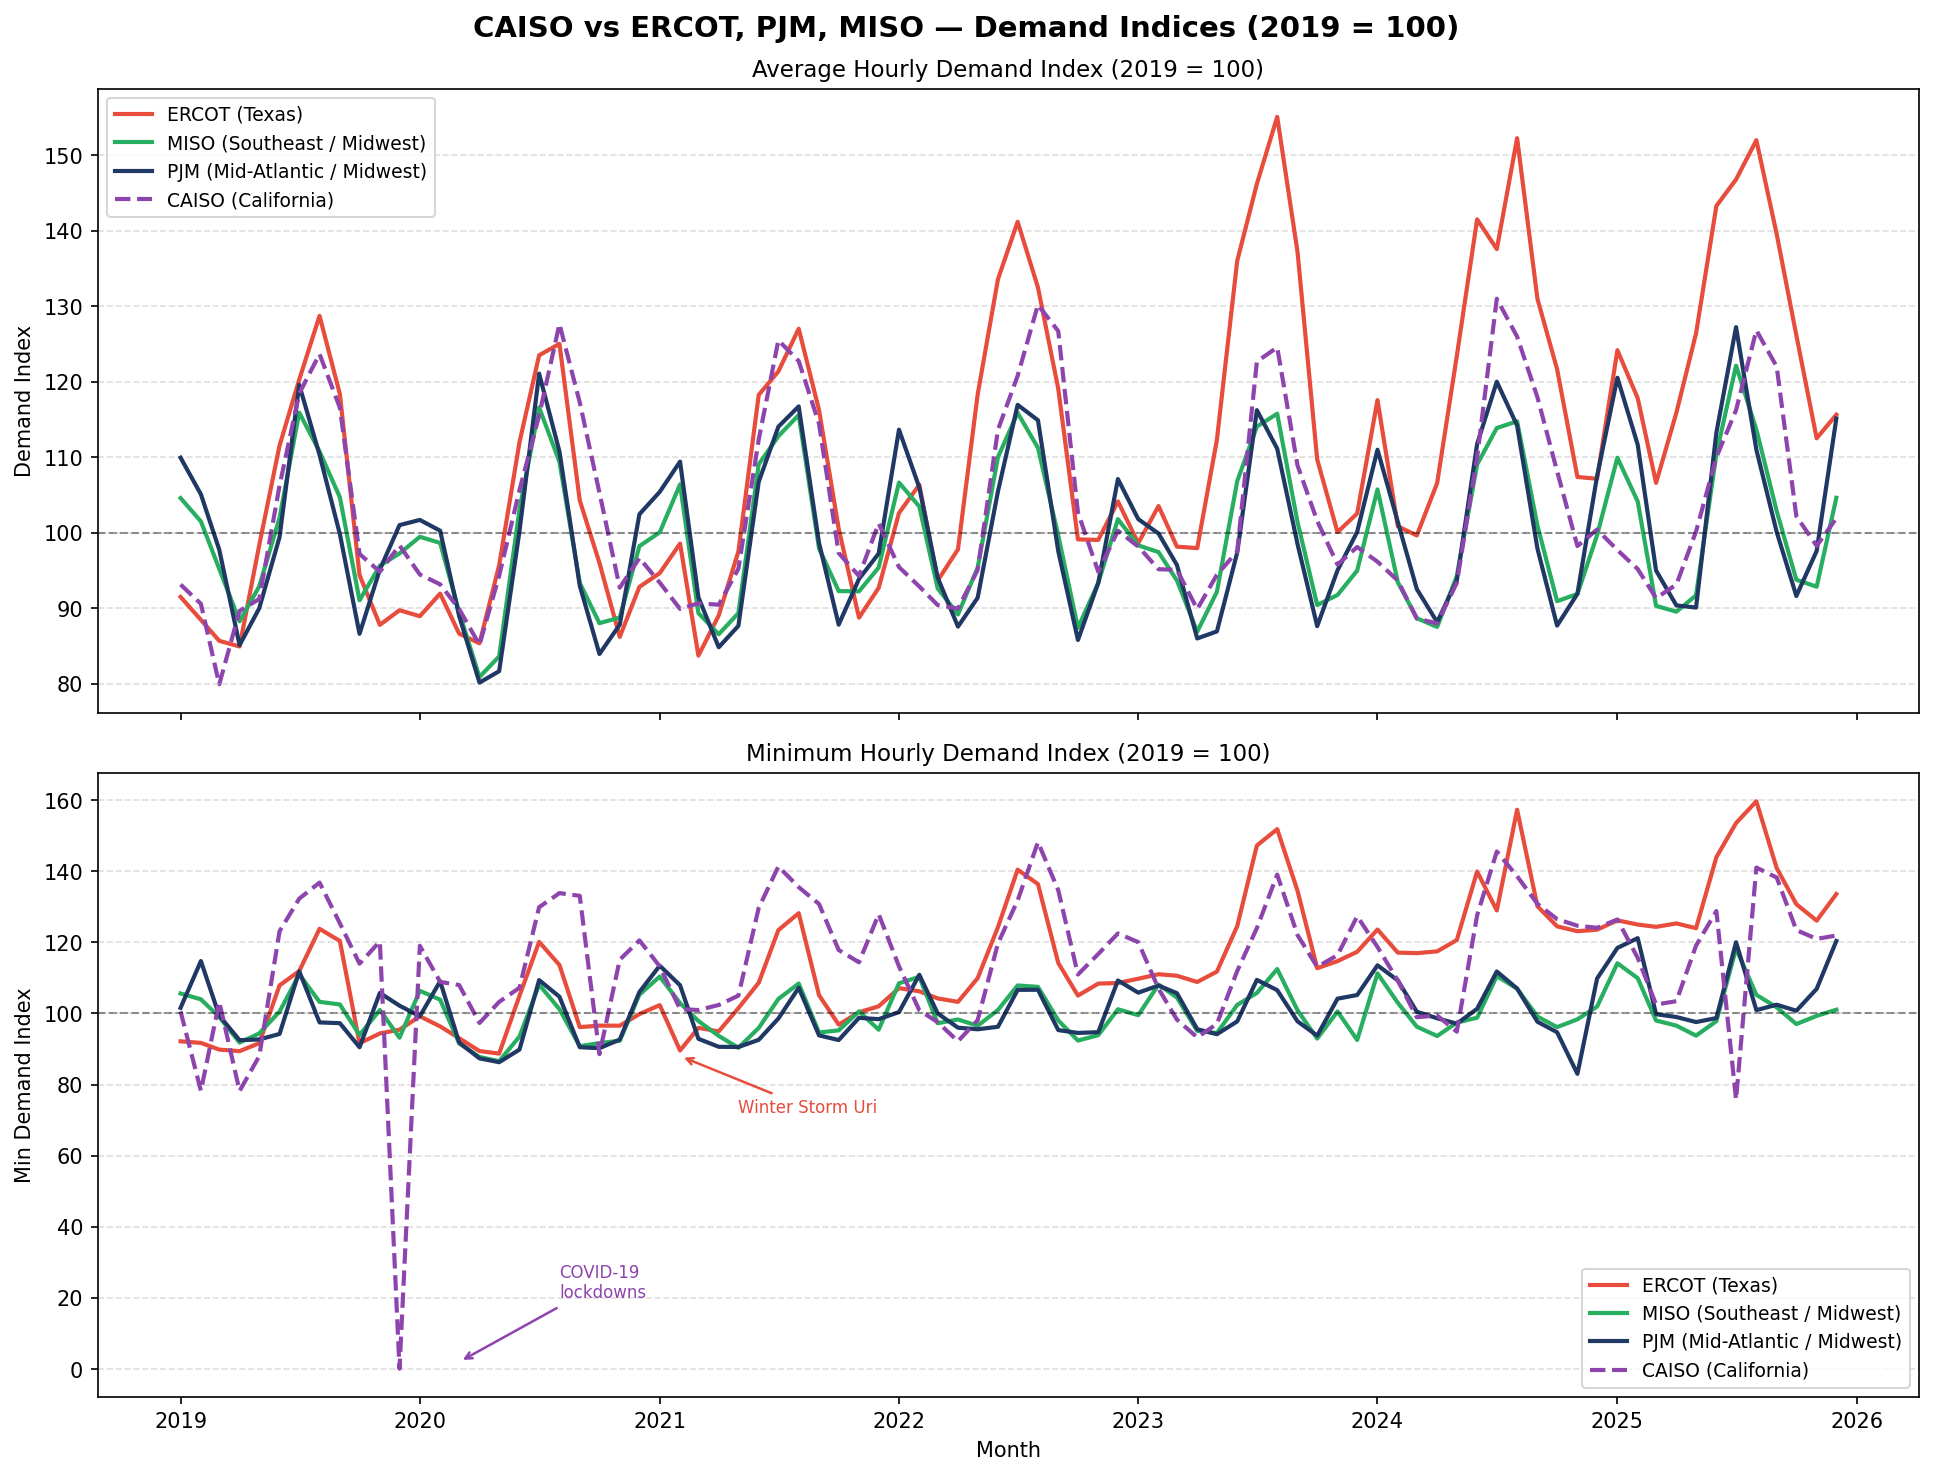
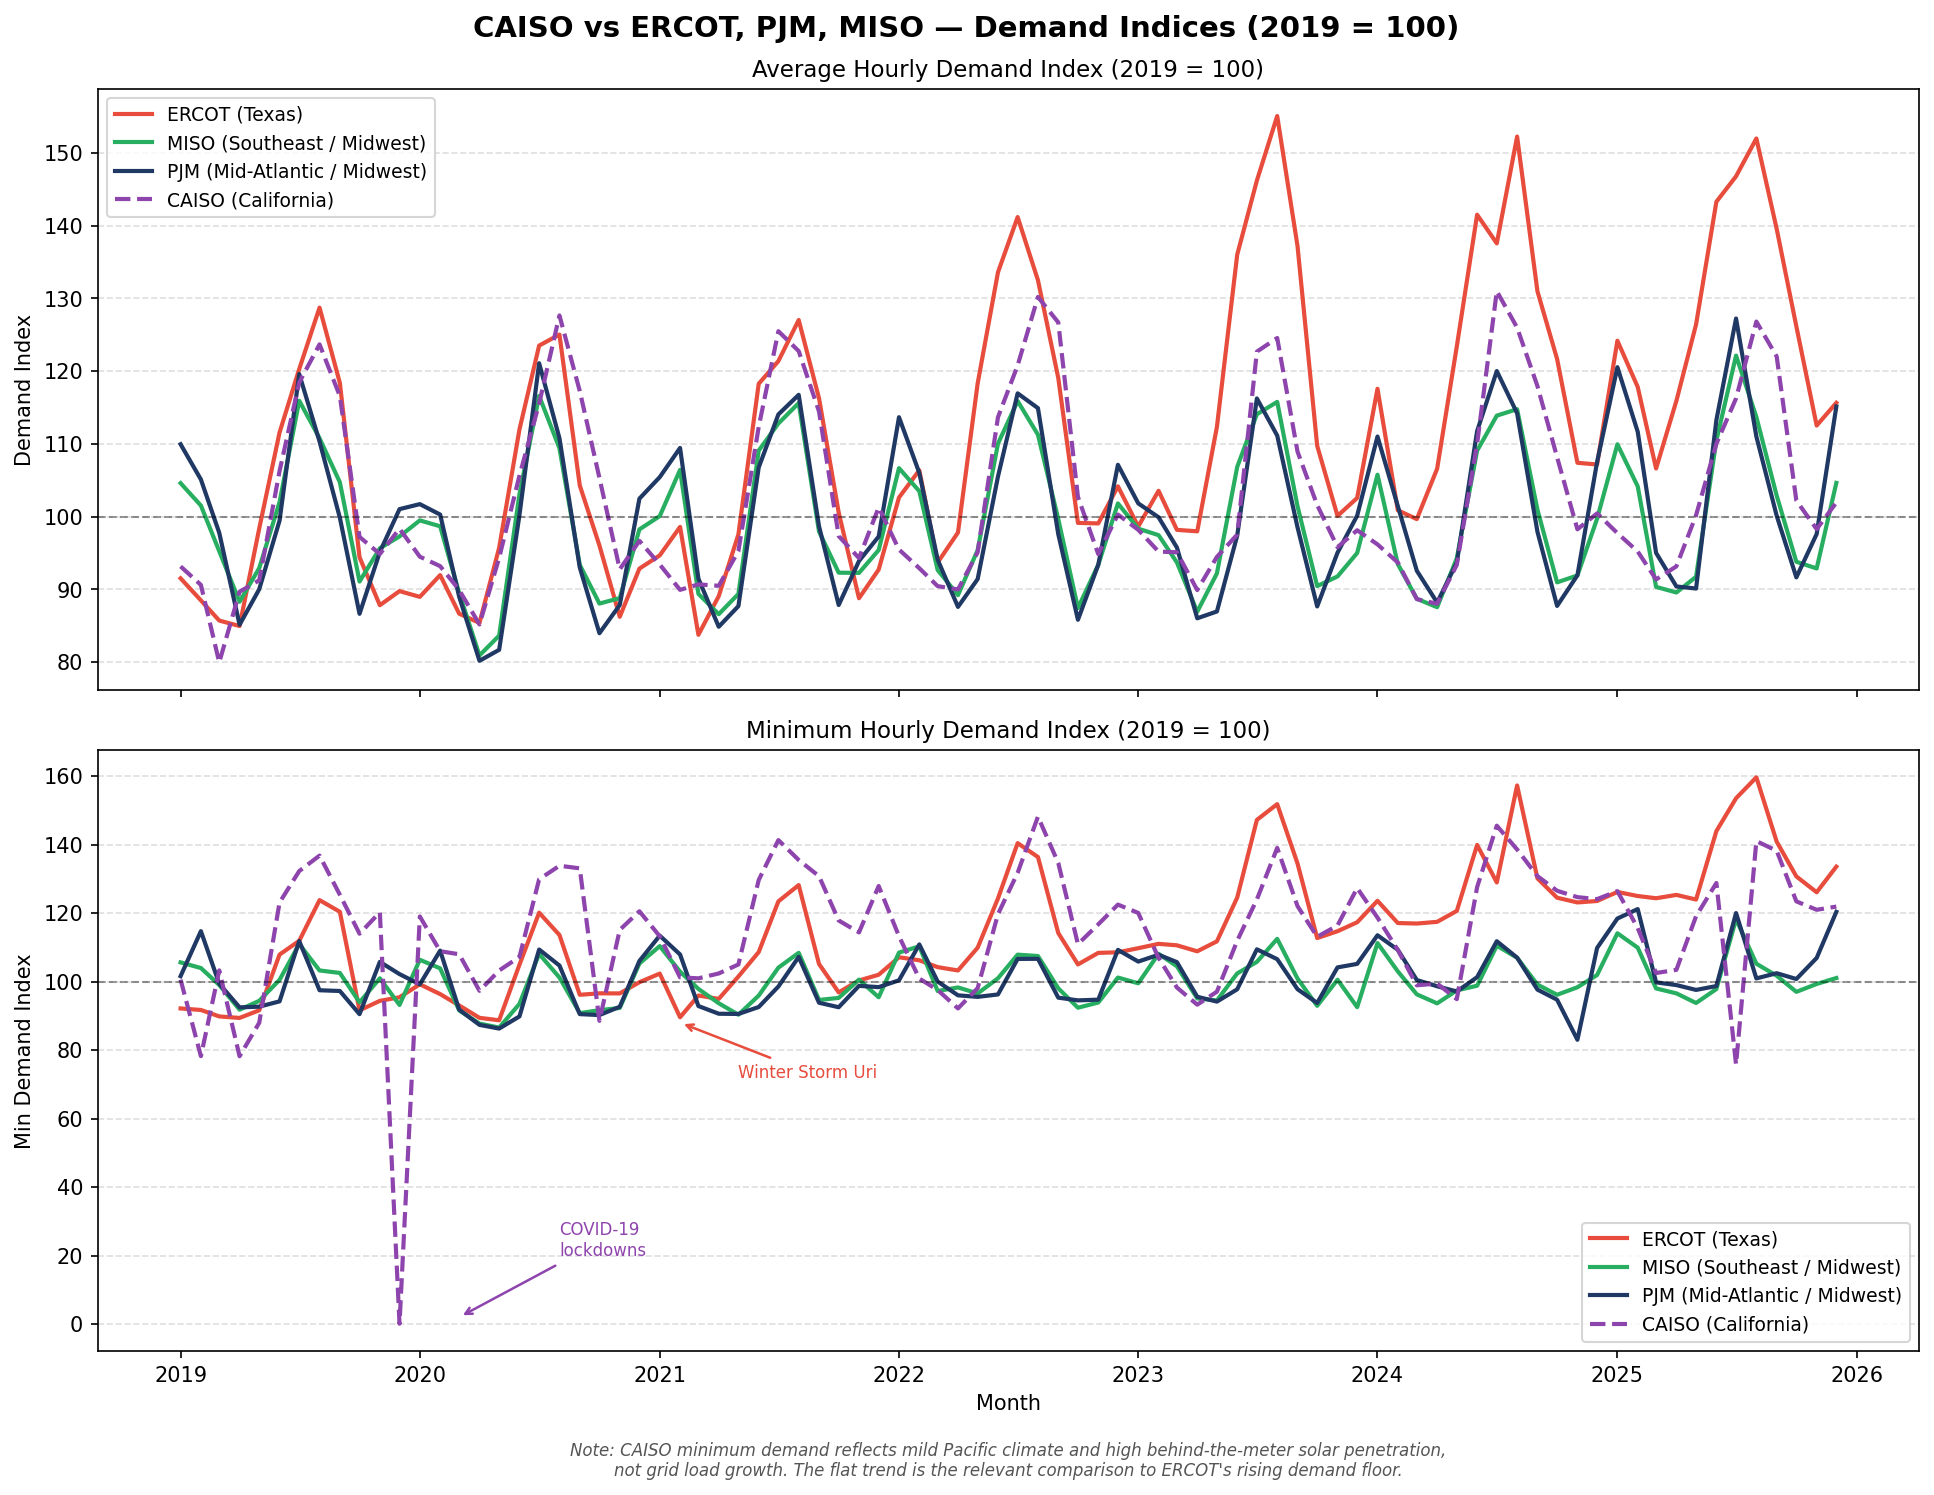
feat: add CAISO comparison and narrative validation figures

diff --git a/scripts/plot_caiso_comparison.py b/scripts/plot_caiso_comparison.py
@@ -90,6 +90,12 @@ axes[1].annotate(
 )
 
 axes[1].set_xlabel("Month", fontsize=10)
+axes[1].text(0.5, -0.15,
+    "Note: CAISO minimum demand reflects mild Pacific climate and high behind-the-meter solar penetration,\n"
+    "not grid load growth. The flat trend is the relevant comparison to ERCOT's rising demand floor.",
+    transform=axes[1].transAxes, fontsize=8, ha="center", va="top",
+    style="italic", color="#555555"
+)
 plt.tight_layout()
 plt.savefig("outputs/caiso_vs_ercot_comparison.png", dpi=150, bbox_inches="tight")
 plt.close()

diff --git a/scripts/plot_sc3_energizations.py b/scripts/plot_sc3_energizations.py
@@ -79,7 +79,7 @@ ax.set_title(
     fontsize=13, fontweight="bold"
 )
 ax.set_xlabel("Month", fontsize=11)
-ax.set_ylabel("Gap: Actual − Synthetic Min Demand (MWh)", fontsize=10)
+ax.set_ylabel("Gap (index points, 2019=100)", fontsize=10)
 ax.legend(fontsize=9)
 ax.grid(axis="y", linestyle="--", alpha=0.4)
 ax.xaxis.set_major_formatter(mdates.DateFormatter("%Y"))